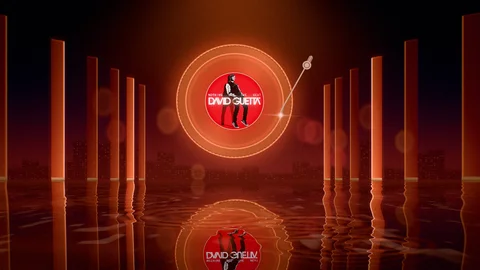
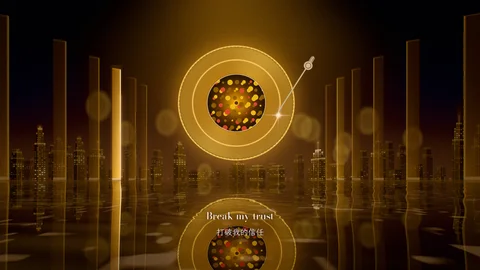
feat(v0.9.0-local-export.43): 补齐水下石柱等场景预览缩略图并重渲染 README 41 场景大全图与设置页配图

diff --git a/src/scenes/velvet.ts b/src/scenes/velvet.ts
@@ -141,6 +141,8 @@ uniform float uKickPunch;      // 底鼓瞬态微推力 0..1
 uniform float uOffbeatHat;     // 反拍开镲高频微光 0..1
 uniform float uBassLevel;      // 低频持续浑厚度 0..1
 uniform float uKeysGlow;       // 电钢琴/和弦整体暖度 0..1
+uniform float uLeadGlow;       // 主旋律/合成器主音持续能量 0..1
+uniform float uLeadPulse;      // 主旋律/和弦音头脉冲 0..1
 uniform float uFilterOpen;     // 低通滤波器开合度 0..1（0 深潜朦胧，1 晶莹通透）
 uniform float uCamShift;       // 摄像机横向视差偏移
 uniform float uCamLift;        // 摄像机纵向微俯仰偏移
@@ -217,23 +219,186 @@ vec3 renderLoungeUpper(vec2 uv, bool isReflection) {
   vec3 horizonTint = mix(uCoverDeep, uWarmAmber * 0.65, 0.38 + 0.22 * uKeysGlow);
   bgCol += horizonTint * horizonBand * (0.22 + 0.14 * uBassLevel) * uSidechain;
 
-  // 远景朦胧高层建筑天际剪影（仅在地平线上方低空区域柔和浮现，带景深雾化）
+  // 远景双层立体都会天际线与动态建筑灯光（含远近视差、退台塔冠、呼吸窗格、音浪立面扫掠、竖向流光灯带、航空信标与水岸车流）
   if (skyH < 0.42) {
-    float cityCoord = (uv.x - 0.5 - uCamShift * 0.018) * uAspect * 16.0;
-    float towerCell = floor(cityCoord);
-    float towerRnd = hash12(vec2(towerCell, 7.13));
-    float towerH = (0.06 + 0.20 * towerRnd * towerRnd) * (1.0 - 0.45 * exp(-pow((uv.x - vanishX) * 4.5, 2.0)));
-    float inTower = 1.0 - smoothstep(towerH - 0.018, towerH + 0.012, skyH);
-    // 建筑体遮挡与极细微暖窗微光
-    bgCol = mix(bgCol, uNightAbyss * 0.52, inTower * 0.55 * (0.45 + 0.55 * uFilterOpen));
-    if (!isReflection && inTower > 0.05) {
-      vec2 winGrid = vec2(fract(cityCoord) * 6.0, skyH * 95.0);
-      vec2 winId = floor(winGrid);
-      float winOn = step(0.76, hash12(winId + vec2(towerCell * 3.1, 1.7)));
-      float winMask = smoothstep(0.15, 0.35, fract(winGrid.x)) * (1.0 - smoothstep(0.65, 0.85, fract(winGrid.x)))
-                    * smoothstep(0.20, 0.40, fract(winGrid.y)) * (1.0 - smoothstep(0.65, 0.85, fract(winGrid.y)));
-      vec3 winCol = mix(uWarmAmber, uCoverBright, hash12(winId + 9.2));
-      bgCol += winCol * winOn * winMask * inTower * (0.04 + 0.08 * uFilterOpen) * uSidechain;
+    float valley = 1.0 - 0.45 * exp(-pow((uv.x - vanishX) * 4.3, 2.0));
+    float sideFromCenter = uv.x - vanishX;
+
+    for (int layer = uZero; layer < 2; layer++) {
+      float fl = float(layer); // 0 = 远景天际建筑群，1 = 中景地标塔楼群（双倍视差）
+      float parallax = mix(0.011, 0.026, fl);
+      float density = mix(21.0, 13.5, fl);
+      float cityCoord = (uv.x - 0.5 - uCamShift * parallax) * uAspect * density + fl * 3.73;
+      float towerCell = floor(cityCoord);
+      float cellU = fract(cityCoord);
+
+      vec2 tSeed = hash22(vec2(towerCell, 7.13 + fl * 19.7));
+      float tRnd = hash12(vec2(towerCell * 1.73 + fl * 11.3, 3.91));
+
+      // 错落建筑间距与宽窄变化：中景塔楼留出呼吸缝隙以透出后方远景楼群灯火，消除生硬连片贴纸感
+      float present = step(mix(0.10, 0.26, fl), tSeed.x);
+      if (present < 0.5) continue;
+
+      float wSpan = mix(0.80 + 0.16 * tRnd, 0.56 + 0.30 * tRnd, fl);
+      float cMid = 0.5 + (tSeed.y - 0.5) * (0.90 - wSpan);
+      float bx = (cellU - (cMid - 0.5 * wSpan)) / wSpan;
+
+      float baseH = (mix(0.068, 0.052, fl) + mix(0.19, 0.24, fl) * pow(tSeed.y, 1.50)) * valley;
+      bool hasSetback = tSeed.y > 0.44;
+      bool hasCrownTier = fl > 0.5 && tSeed.y > 0.72;
+      float shaftH = baseH * (hasSetback ? 0.78 : 1.0);
+      float tier2H = baseH * (hasCrownTier ? 1.10 : 1.0);
+
+      // 阶梯退台轮廓：主楼身 + 退台塔冠 + 摩天楼顶层缩进段
+      // 阶梯退台轮廓：主楼身 + 退台塔冠 + 摩天楼顶层缩进段（连续盒掩码取并集，零水平断层接缝）
+      float edgeSoft = mix(0.045, 0.026, fl);
+      float topBlur = mix(0.008, 0.004, fl);
+      float boxShaft = smoothstep(0.0, edgeSoft, bx) * (1.0 - smoothstep(1.0 - edgeSoft, 1.0, bx))
+                     * (1.0 - smoothstep(shaftH - topBlur, shaftH + topBlur, skyH));
+      float boxSetback = hasSetback
+        ? smoothstep(0.15, 0.15 + edgeSoft, bx) * (1.0 - smoothstep(0.85 - edgeSoft, 0.85, bx))
+          * (1.0 - smoothstep(baseH - topBlur, baseH + topBlur, skyH))
+        : 0.0;
+      float boxCrown = hasCrownTier
+        ? smoothstep(0.28, 0.28 + edgeSoft, bx) * (1.0 - smoothstep(0.72 - edgeSoft, 0.72, bx))
+          * (1.0 - smoothstep(tier2H - topBlur, tier2H + topBlur, skyH))
+        : 0.0;
+      float inTower = max(boxShaft, max(boxSetback, boxCrown));
+      float topAtX = shaftH;
+      if (hasSetback && bx > 0.15 && bx < 0.85) topAtX = baseH;
+      if (hasCrownTier && bx > 0.28 && bx < 0.72) topAtX = tier2H;
+
+      // 绑定十二半音色度能量 + 由中心向外扩散的城市音浪波前，使天际大楼随和弦与底鼓产生空间联动
+      int towerNote = int(mod(abs(towerCell) * 5.0 + fl * 4.0, 12.0));
+      float chromaGlow = getLouverGlow(towerNote);
+      float outwardPhase = fract(abs(sideFromCenter) * uAspect * 1.15 - uFlow * 0.28);
+      float cityRipple = exp(-pow((outwardPhase - 0.35) / 0.18, 2.0)) * (0.35 * uBassLevel + 0.65 * uKeysGlow);
+      float musicDrive = clamp(0.48 * chromaGlow + 0.38 * uKeysGlow + 0.38 * uLeadGlow + 0.52 * uLeadPulse + 0.42 * cityRipple, 0.0, 1.45);
+
+      if (inTower > 0.004) {
+        float hn = clamp(skyH / max(tier2H, 0.04), 0.0, 1.0);
+        // 三维双立面受光转折：朝向中央琥珀黑胶的一侧受暖光漫射，背光侧沉入冷夜暗影，立面折角带微高光棱线
+        float ridgeX = 0.34 + 0.32 * tRnd;
+        float faceLit = sideFromCenter < 0.0 ? smoothstep(ridgeX - 0.05, ridgeX + 0.05, bx)
+                                             : 1.0 - smoothstep(ridgeX - 0.05, ridgeX + 0.05, bx);
+        float cornerRidge = exp(-pow((bx - ridgeX) / 0.036, 2.0));
+
+        vec3 darkFacade = mix(uNightAbyss * mix(0.48, 0.30, fl), uNightFog * 0.40, 0.26 * (1.0 - fl));
+        vec3 litFacade = mix(darkFacade, mix(uCoverDeep, uWarmAmber * 0.48, 0.44) * (0.36 + 0.16 * cityRipple), 0.38 + 0.36 * hn);
+        vec3 hullCol = mix(darkFacade, litFacade, faceLit * (0.55 + 0.45 * uFilterOpen));
+        hullCol += mix(uCoverPrimary, uWarmAmber, 0.58) * cornerRidge * (0.035 + 0.095 * musicDrive) * fl;
+
+        // 沿楼体自下而上流淌的聚焦音浪扫掠光带（随和弦、主旋律与横向城市波前起伏唤醒幕墙）
+        float sweepPos = fract(uFlow * (0.24 + 0.15 * tRnd) + tSeed.x);
+        float dSweep = abs(hn - sweepPos);
+        dSweep = min(dSweep, 1.0 - dSweep);
+        float sweepBand = exp(-pow(dSweep / 0.095, 2.0)) * (0.30 + 0.85 * musicDrive);
+
+        // 错落有致的动态窗格：含房间呼吸明灭、音浪扫掠逐层点亮与反拍星烁
+        float bays = floor(3.0 + 4.0 * tRnd + fl * 2.0);
+        float floorScale = mix(118.0, 88.0, fl);
+        vec2 winGrid = vec2(bx * bays, skyH * floorScale);
+        vec2 winId = floor(winGrid);
+        vec2 winFrac = fract(winGrid);
+
+        float floorHash = hash12(vec2(winId.y, towerCell * 2.3 + fl * 7.1));
+        float cellHash = hash12(winId + vec2(towerCell * 3.1, 1.7 + fl * 5.3));
+        // 双速动态窗灯：大多数房间慢速柔和呼吸，约 25% 活跃窗格随节拍与旋律灵动明灭
+        float liveRate = cellHash > 0.74 ? (1.15 + 1.35 * floorHash) : (0.38 + 0.62 * cellHash);
+        float slowWave = 0.5 + 0.5 * sin(uTime * liveRate + cellHash * TAU + floorHash * 4.0);
+        float baseOcc = step(mix(0.77, 0.69, fl), cellHash * 0.72 + floorHash * 0.38) * smoothstep(0.18, 0.58, slowWave);
+        float sweepWake = step(0.46, hash12(winId + 13.7)) * smoothstep(0.08, 0.36, sweepBand + 0.24 * chromaGlow);
+        float winActive = max(baseOcc * (0.45 + 0.55 * slowWave), sweepWake);
+
+        float winMaskX = isReflection ? 0.62
+          : smoothstep(0.12, 0.26, winFrac.x) * (1.0 - smoothstep(0.74, 0.88, winFrac.x));
+        float winMaskY = isReflection
+          ? smoothstep(0.15, 0.42, winFrac.y) * (1.0 - smoothstep(0.62, 0.90, winFrac.y))
+          : smoothstep(0.20, 0.36, winFrac.y) * (1.0 - smoothstep(0.68, 0.84, winFrac.y));
+
+        float hatShimmer = 1.0 + step(0.76, cellHash) * uOffbeatHat * (0.65 + 0.55 * sin(uTime * 6.5 + cellHash * 19.0));
+        vec3 baseWinCol = mix(uWarmAmber, mix(uCoverBright, vec3(1.0, 0.96, 0.88), 0.42), hash12(winId + 9.2) * 0.82);
+        vec3 sweepWinCol = mix(uCoverBright, vec3(1.0, 0.94, 0.80), 0.45 + 0.35 * sin(hn * 4.0 + tSeed.x * TAU));
+        vec3 winCol = mix(baseWinCol, sweepWinCol, clamp(sweepBand * 0.82, 0.0, 0.85));
+
+        float winLum = (0.052 + 0.095 * uFilterOpen + 0.22 * sweepBand + 0.11 * chromaGlow + 0.07 * cityRipple) * hatShimmer * uSidechain;
+        hullCol += winCol * winActive * winMaskX * winMaskY * winLum * mix(0.65, 1.0, fl);
+        // 音浪扫过楼层时的幕墙玻璃柔和漫射光晕
+        hullCol += sweepWinCol * sweepBand * (0.032 + 0.048 * musicDrive) * (0.45 + 0.55 * faceLit) * fl;
+
+        // 地标高楼竖向棱角流光灯条 / 观光梯流光梭（沿立面折角或内侧边缘向上游走）
+        if (fl > 0.5 && tSeed.y > 0.32 && tRnd > 0.28) {
+          float stripPos = tRnd > 0.62 ? ridgeX : (sideFromCenter < 0.0 ? 0.80 : 0.20);
+          float stripMask = exp(-pow((bx - stripPos) / (isReflection ? 0.048 : 0.022), 2.0));
+          float shuttleDir = tRnd > 0.5 ? 1.0 : -1.0;
+          float shuttlePos = fract(uFlow * shuttleDir * (0.28 + 0.16 * tRnd) + tSeed.y);
+          float dShuttle = abs(hn - shuttlePos);
+          dShuttle = min(dShuttle, 1.0 - dShuttle);
+          float shuttle = 0.18 + 0.82 * exp(-pow(dShuttle / 0.11, 2.0));
+          vec3 stripCol = mix(uWarmAmber, mix(uCoverBright, vec3(1.0, 0.96, 0.88), 0.35), 0.35 + 0.50 * chromaGlow);
+          hullCol += stripCol * stripMask * shuttle * (0.065 + 0.24 * musicDrive + 0.08 * uFilterOpen) * uSidechain;
+        }
+
+        // 高层退台露台灯带与塔冠顶部水平轮廓光（Penthouse & Setback Terrace Trim）
+        if (tSeed.y > 0.40) {
+          float crownBand = exp(-pow((skyH - topAtX + 0.0042) / 0.0048, 2.0));
+          if (hasSetback) {
+            crownBand = max(crownBand, 0.72 * exp(-pow((skyH - shaftH + 0.0038) / 0.0042, 2.0)));
+          }
+          vec3 crownCol = mix(uWarmAmber, mix(uCoverBright, vec3(1.0, 0.95, 0.85), 0.35), 0.32 + 0.52 * tRnd);
+          hullCol += crownCol * crownBand * (0.095 + 0.26 * chromaGlow + 0.18 * uLeadPulse + 0.10 * cityRipple) * mix(0.58, 1.0, fl) * uSidechain;
+        }
+
+        // 远近大气雾化遮挡融合：中景塔楼自然遮挡远景塔楼与夜空背景
+        float hullAlpha = inTower * mix(0.66, 0.88, fl) * (0.52 + 0.48 * uFilterOpen);
+        bgCol = mix(bgCol, hullCol, hullAlpha);
+      }
+
+      // 地标摩天楼顶柔和建筑天际投光束 + 航空障碍信标灯
+      if (fl > 0.5 && tSeed.y > 0.56 && bx > -0.20 && bx < 1.20) {
+        // 少数超高层塔冠向上散射的柔和建筑雾光柱（随和弦与主旋律微幅摇曳呼吸）
+        if (tSeed.y > 0.68 && tRnd > 0.52 && skyH >= tier2H - 0.004) {
+          float aboveH = skyH - tier2H;
+          float sway = sin(uTime * (0.45 + 0.25 * tRnd) + towerCell * 1.9) * 0.18;
+          float beamCenter = 0.5 + sway * aboveH * 3.2;
+          float beamHalfW = 0.12 + aboveH * 1.35;
+          float upBeam = exp(-pow((bx - beamCenter) / beamHalfW, 2.0)) * exp(-aboveH / 0.095);
+          vec3 upCol = mix(uWarmAmber, uCoverBright, 0.45);
+          bgCol += upCol * upBeam * (0.025 + 0.085 * musicDrive) * uFilterOpen * uSidechain;
+        }
+
+        bool hasSpire = tRnd > 0.44;
+        float spireTop = tier2H + (hasSpire ? 0.026 + 0.022 * tRnd : 0.004);
+        if (hasSpire && skyH >= tier2H - 0.002 && skyH <= spireTop) {
+          float spireMask = exp(-pow((bx - 0.5) / 0.022, 2.0)) * (1.0 - smoothstep(spireTop - 0.006, spireTop, skyH));
+          bgCol += mix(uNightFog, uWarmAmber, 0.58) * spireMask * (0.16 + 0.10 * musicDrive);
+        }
+        vec2 bDelta = vec2((cellU - cMid) / density * 14.0, (skyH - spireTop) * (1.0 - HORIZON_Y) * 14.0);
+        float bDist2 = dot(bDelta, bDelta);
+        if (bDist2 < 0.06) {
+          float blinkWave = 0.5 + 0.5 * sin(uTime * (2.4 + 1.2 * tRnd) + towerCell * 2.37);
+          float blink = pow(blinkWave, 6.0);
+          blink = max(blink, (0.38 + 0.62 * blinkWave) * (0.50 * uKickPunch + 0.45 * uLeadPulse));
+          float core = exp(-bDist2 / 0.0012);
+          float halo = exp(-bDist2 / 0.012);
+          vec3 beaconCol = mix(vec3(1.0, 0.38, 0.22), mix(uWarmAmber, uCoverBright, 0.5), 0.48);
+          bgCol += beaconCol * (core * 0.42 + halo * 0.11) * blink * (0.55 + 0.45 * uFilterOpen);
+        }
+      }
+    }
+
+    // 远景水岸长桥与滨水大道缓慢流动的微型车河光珠（锚定建筑底部与水面交界，增添都会烟火气）
+    if (skyH < 0.018) {
+      float roadBand = exp(-pow((skyH - 0.0055) / 0.0042, 2.0)) * (0.45 + 0.55 * valley);
+      float laneA = (uv.x - uCamShift * 0.022) * uAspect * 46.0 + uTime * 0.55;
+      float laneB = (uv.x - uCamShift * 0.022) * uAspect * 54.0 - uTime * 0.48 + 11.3;
+      float idA = floor(laneA), fA = fract(laneA);
+      float idB = floor(laneB), fB = fract(laneB);
+      float carA = step(0.62, hash12(vec2(idA, 31.7))) * exp(-pow((fA - 0.5) / 0.20, 2.0));
+      float carB = step(0.66, hash12(vec2(idB, 47.3))) * exp(-pow((fB - 0.5) / 0.20, 2.0));
+      vec3 headCol = mix(uWarmAmber, vec3(1.0, 0.96, 0.88), 0.45);
+      vec3 tailCol = mix(uCoverPrimary, vec3(1.0, 0.42, 0.28), 0.42);
+      bgCol += (headCol * carA * 0.10 + tailCol * carB * 0.085) * roadBand * (0.50 + 0.50 * uFilterOpen) * uSidechain;
     }
   }
 
@@ -661,6 +826,8 @@ export class VelvetScene implements MvScene {
   private readonly rawHatVals: Float64Array;
   private readonly keyHitTimes: Float64Array;
   private readonly keyHitVals: Float64Array;
+  private readonly leadHitTimes: Float64Array;
+  private readonly leadHitVals: Float64Array;
 
   private readonly chromaBuf = new Float32Array(12);
   readonly uniforms: Record<string, THREE.IUniform>;
@@ -691,6 +858,10 @@ export class VelvetScene implements MvScene {
     const mergedKeys = [...synthHits, ...keyHits].sort((a, b) => a[0] - b[0]);
     this.keyHitTimes = Float64Array.from(mergedKeys, h => h[0]);
     this.keyHitVals = Float64Array.from(mergedKeys, h => h[1]);
+
+    const leadHits = music.roleHits('lead', 0, music.duration);
+    this.leadHitTimes = Float64Array.from(leadHits, h => h[0]);
+    this.leadHitVals = Float64Array.from(leadHits, h => h[1]);
 
     // 构建封面自适应「都市午夜微醺」色板：
     // 暗部沉入午夜靛蓝/浓缩暖黑；若封面偏冷，辅以温润钨丝琥珀色；若封面偏暖，保留醇厚琥珀并以冷夜雾衬底
@@ -726,6 +897,8 @@ export class VelvetScene implements MvScene {
       uOffbeatHat: { value: 0 },
       uBassLevel: { value: 0 },
       uKeysGlow: { value: 0 },
+      uLeadGlow: { value: 0 },
+      uLeadPulse: { value: 0 },
       uFilterOpen: { value: 0.5 },
       uCamShift: { value: 0 },
       uCamLift: { value: 0 },
@@ -881,10 +1054,13 @@ export class VelvetScene implements MvScene {
     const offbeatWindow = Math.exp(-Math.pow((beatInfo.phase - 0.50) / 0.16, 2.0));
     const offbeatHat = clamp01(rawHat * (0.45 + 0.75 * offbeatWindow) + highEnv * offbeatWindow * 0.68);
 
-    // 3. 浑厚贝斯能量与电钢琴/切分和弦温暖混响包络 (decay = 0.52s)
+    // 3. 浑厚贝斯能量、电钢琴切分和弦与主旋律包络（共同驱动前景光栅与远景天际大楼流光）
     const bassLevel = clamp01(Math.max(lowEnv * 0.92, timbre.bassStab * 0.95));
     const keysPulse = this.evalHitPulse(this.keyHitTimes, this.keyHitVals, t, 0.52);
     const keysGlow = clamp01(Math.max(keysPulse, timbre.synthStab * 0.85, fg.level * 0.72));
+    const leadHit = this.evalHitPulse(this.leadHitTimes, this.leadHitVals, t, 0.34);
+    const leadGlow = clamp01(Math.max(fg.level * 0.92, leadHit * 0.75));
+    const leadPulse = clamp01(Math.max(leadHit, fg.attack * 0.90, keysPulse * 0.45));
 
     // 4. 低通滤波器开合度映射 (Filter Cutoff Sweep)：Intro/Break 朦胧深潜，主律动段晶莹通透
     const secLabel = shot.section.label;
@@ -917,6 +1093,8 @@ export class VelvetScene implements MvScene {
     u.uOffbeatHat.value = offbeatHat;
     u.uBassLevel.value = bassLevel;
     u.uKeysGlow.value = keysGlow;
+    u.uLeadGlow.value = leadGlow;
+    u.uLeadPulse.value = leadPulse;
     u.uFilterOpen.value = filterOpen;
     u.uCamShift.value = camShift;
     u.uCamLift.value = camLift;

diff --git a/src/plugin/ui.ts b/src/plugin/ui.ts
@@ -1151,7 +1151,7 @@ export function settingsView(config: Config, onChange: (c: Config) => void, prev
     const text = el('div');
     const name = el('div', 'bmv-set-name', 'BetterMV');
     if (VERSION) name.append(el('span', 'bmv-set-ver', VERSION));
-    text.append(name, el('div', 'bmv-set-desc', '为正在播放的歌曲实时生成 3D MV：以封面构建场景，按歌曲结构剪辑镜头，按曲风自动选择风格。'));
+    text.append(name, el('div', 'bmv-set-desc', '为正在播放的歌曲实时生成 3D MV：以封面构建 41 个场景，按歌曲结构与主旋律剪辑镜头，支持 5 种曲风风格与 4 种画风。'));
     head.append(mark, text);
     view.append(head);
   }
